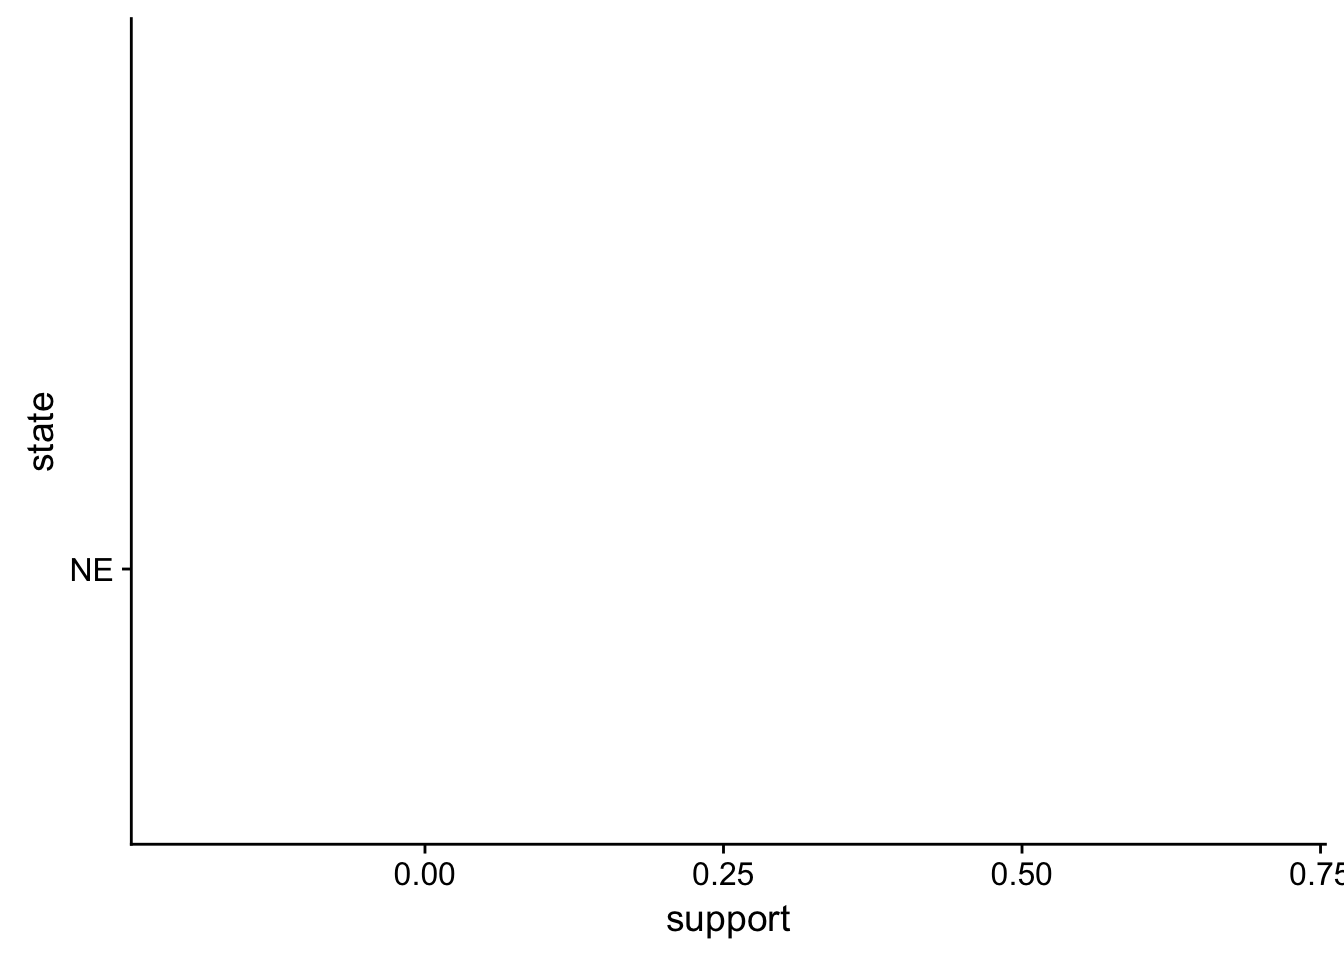
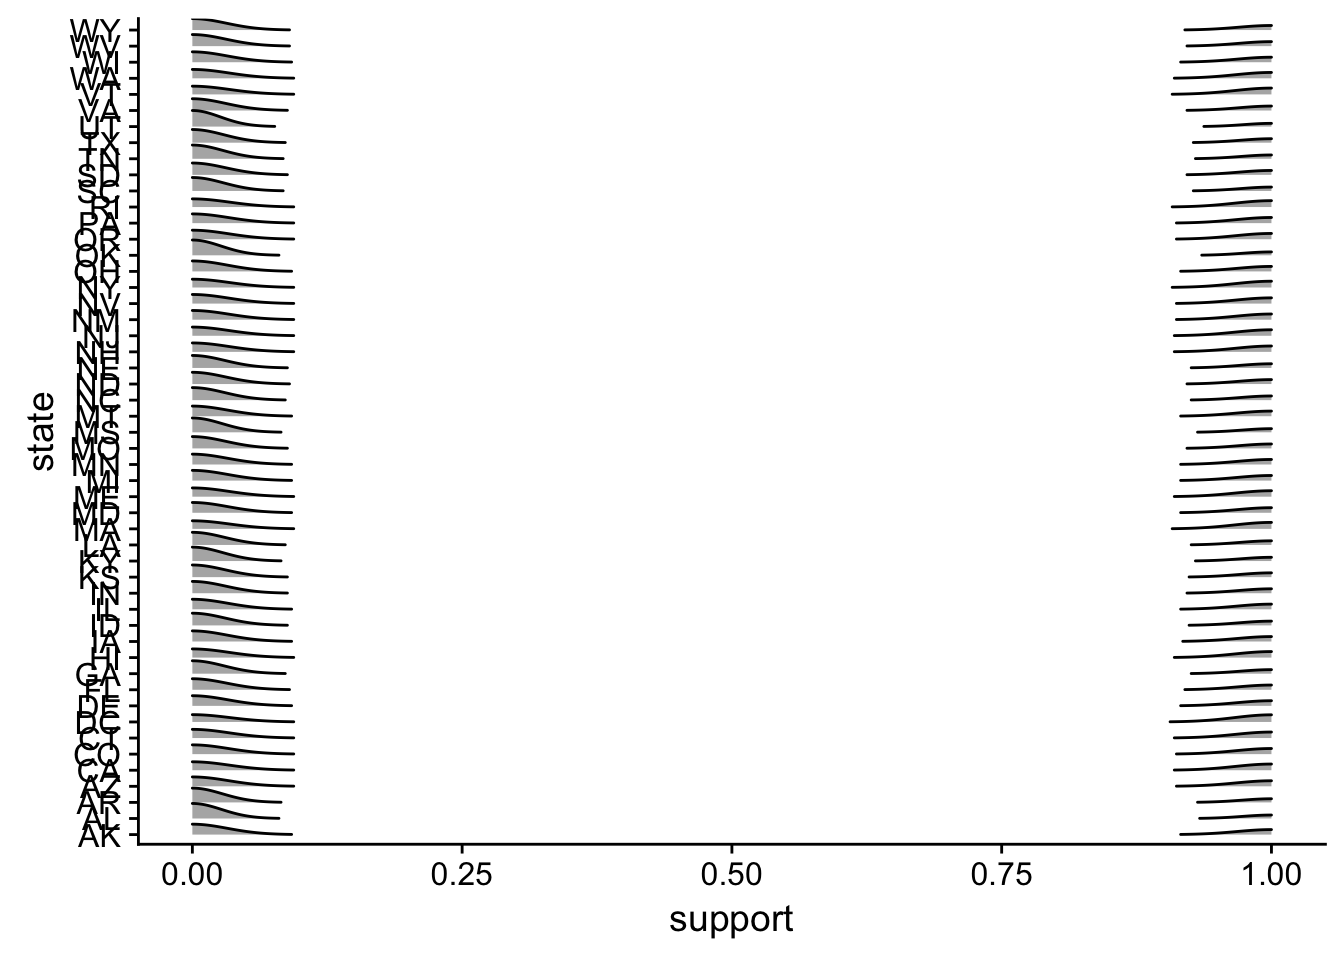
forgot to build

diff --git a/content/blog/2017-11-19-multilevel-mrp-tidybayes-brms-stan.html b/content/blog/2017-11-19-multilevel-mrp-tidybayes-brms-stan.html
@@ -342,24 +342,29 @@ ps.bayes.mod &lt;- bayes.pred %&gt;%
   mutate(support = support * cpercent.state) %&gt;%
   group_by(state) %&gt;%
   summarise(support = sum(support))</code></pre>
-<pre class="r"><code>ps.bayes.mod %&gt;%
+<pre class="r"><code>bayes.pred %&gt;%
   select(state, support)</code></pre>
-<pre><code>## # A tibble: 51 x 2
-##    state   support
-##    &lt;chr&gt;     &lt;dbl&gt;
-##  1    AK 0.3457047
-##  2    AL 0.1784604
-##  3    AR 0.1912090
-##  4    AZ 0.3829272
-##  5    CA 0.4476777
-##  6    CO 0.4093657
-##  7    CT 0.4224712
-##  8    DC 0.5008173
-##  9    DE 0.3366627
-## 10    FL 0.2903059
-## # ... with 41 more rows</code></pre>
-<pre class="r"><code>ps.bayes.mod %&gt;%
-  filter(state == &#39;NE&#39;) %&gt;%
+<pre><code>## # A tibble: 19,584,000 x 17
+## # Groups:   state, p.evang, p.mormon, kerry.04, crace.WBH, age.cat,
+## #   edu.cat, cfemale, .freq, cfreq.state, cpercent.state, region,
+## #   race.female, age.edu.cat, p.relig, .row [4,896]
+##    p.evang p.mormon kerry.04 crace.WBH age.cat edu.cat cfemale .freq
+##      &lt;dbl&gt;    &lt;dbl&gt;    &lt;dbl&gt;     &lt;int&gt;   &lt;int&gt;   &lt;int&gt;   &lt;int&gt; &lt;int&gt;
+##  1   12.44 3.003126     35.5         1       1       1       0   467
+##  2   12.44 3.003126     35.5         1       1       1       0   467
+##  3   12.44 3.003126     35.5         1       1       1       0   467
+##  4   12.44 3.003126     35.5         1       1       1       0   467
+##  5   12.44 3.003126     35.5         1       1       1       0   467
+##  6   12.44 3.003126     35.5         1       1       1       0   467
+##  7   12.44 3.003126     35.5         1       1       1       0   467
+##  8   12.44 3.003126     35.5         1       1       1       0   467
+##  9   12.44 3.003126     35.5         1       1       1       0   467
+## 10   12.44 3.003126     35.5         1       1       1       0   467
+## # ... with 19,583,990 more rows, and 9 more variables: cfreq.state &lt;dbl&gt;,
+## #   cpercent.state &lt;dbl&gt;, region &lt;chr&gt;, race.female &lt;dbl&gt;,
+## #   age.edu.cat &lt;dbl&gt;, p.relig &lt;dbl&gt;, .row &lt;int&gt;, state &lt;chr&gt;,
+## #   support &lt;int&gt;</code></pre>
+<pre class="r"><code>bayes.pred %&gt;%
   ggplot(aes(y=state, x=support)) +
   ggridges::geom_density_ridges(aes(height=..density..),
                                 rel_min_height = 0.01, stat = &quot;density&quot;,
